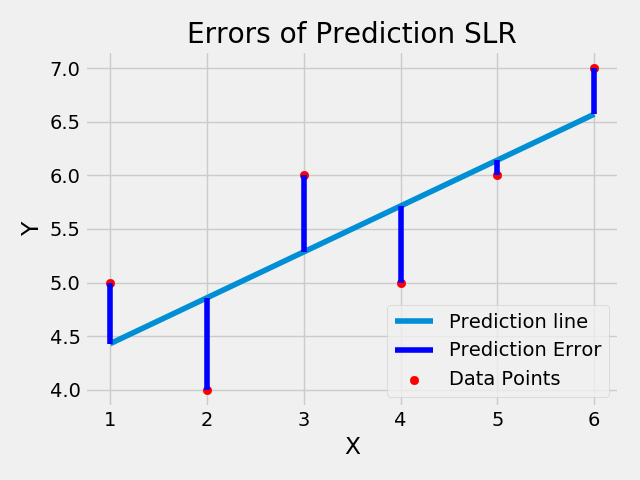
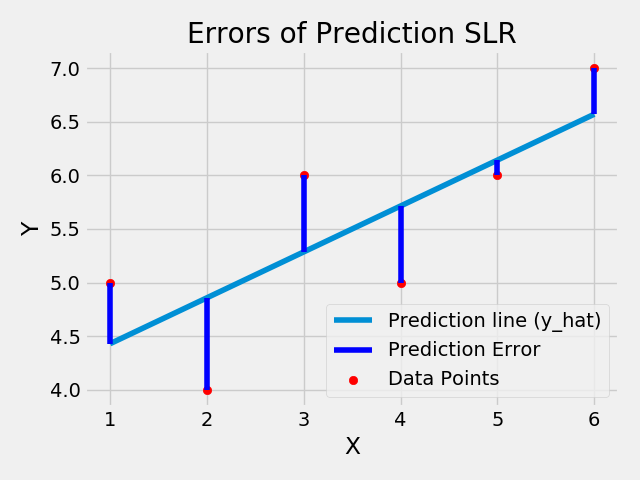
y_hat

Changed region(s): [[0.5, 0.6562, 0.9375, 0.8125], [0.5312, 0.7812, 0.5625, 0.8125]]

diff --git a/simple_regression.py b/simple_regression.py
@@ -16,9 +16,9 @@ def m_b(x,y):
 def squared_error(ys_orig,ys_line):
     return sum((ys_line-ys_orig)**2)
 
-def coefficient_of_determination(ys_orig,ys_line):
-    squared_error_y_reg = squared_error(ys_orig, ys_line)
-    squared_error_y_mean = squared_error(ys_orig, mean(ys_orig) )
+def coefficient_of_determination(y,y_):
+    squared_error_y_reg = squared_error(y, y_)
+    squared_error_y_mean = squared_error(y, mean(y) )
     return 1 - (squared_error_y_reg/squared_error_y_mean)
 
 m,b= m_b(x,y)
@@ -32,7 +32,7 @@ r_squared = coefficient_of_determination(y,y_)
 print(r_squared)
 plt.scatter(x,y, label='real data points', color='r')
 plt.scatter(prediction_x,prediction_y, label='single prediction', color='g')
-plt.plot(x,y_, label='prediction line')
+plt.plot(x,y_, label='prediction line(y_hat)')
 
 plt.legend(loc=4)
 plt.xlabel('X')
@@ -51,7 +51,7 @@ for xi,y_i,yi in zip(np.nditer(x),np.nditer(y_),np.nditer(y)):
     plt.plot([xi,xi],[y_i,yi],label='error',color='b')
     if i == 0:
         i=1
-        plt.legend(['Prediction line', 'Prediction Error' , 'Data Points'],loc=4)
+        plt.legend(['Prediction line (y_hat)', 'Prediction Error' , 'Data Points'],loc=4)
         
 plt.xlabel('X')
 plt.ylabel('Y')
